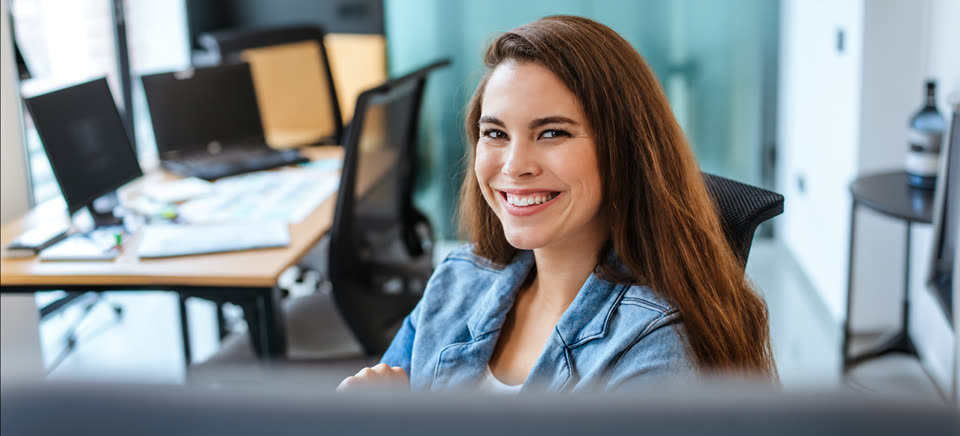
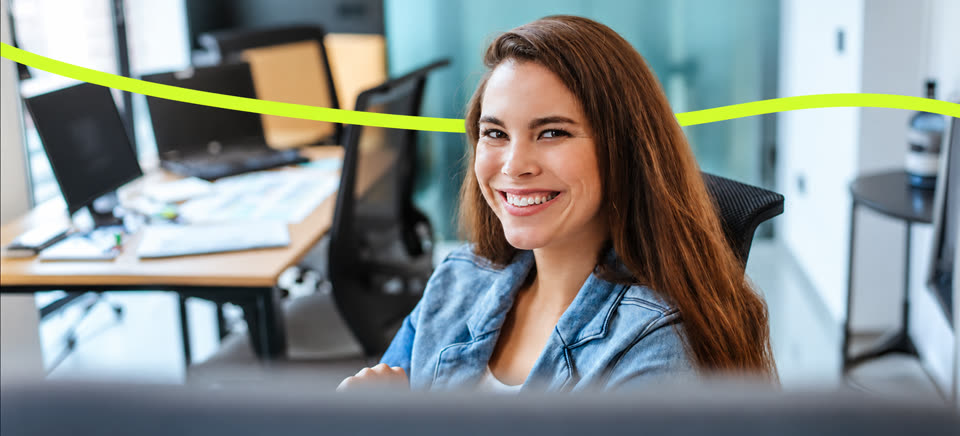
Trois sujets : retour aux trois cartes avec photo, nouvelle photo témoignage
- « Trois sujets » : retour aux trois cartes d'origine, avec une photo en
  tête de chaque carte (pictogramme lime posé sur la photo, léger zoom au
  survol)
- Témoignage : nouvelle photo fournie (ruban lime), optimisée en JPG et
  recadrée
- Vidéo promo : halo sombre derrière le titre de la scène LiDAR pour la
  lisibilité

Claude-Session: https://claude.ai/code/session_012Z1wnqPfYkGYDkLmqNruBr

diff --git a/src/components/Pillars.tsx b/src/components/Pillars.tsx
@@ -1,262 +1,45 @@
-import type { ReactNode } from 'react';
-import { Banknote, CalendarClock, Check, Search, Sparkles, Zap, type LucideIcon } from 'lucide-react';
-import { useInView, useSteps } from '../hooks/useInView';
+import { Banknote, Check, Search, Zap, type LucideIcon } from 'lucide-react';
 import Reveal from './Reveal';
 import Section, { Eyebrow, Heading, Lead } from './Section';
 
-const NB = ' ';
-
 // Unsplash photos (Unsplash License, free for commercial use).
-const unsplash = (id: string, w: number) => `https://images.unsplash.com/${id}?auto=format&fit=crop&w=${w}&h=${Math.round(w * 0.78)}&q=80`;
+const photo = (id: string, w: number) =>
+  `https://images.unsplash.com/${id}?auto=format&fit=crop&w=${w}&h=${Math.round(w * 0.62)}&q=80`;
 
-/* ------------------------------------------------------------ mini demos */
-
-/** Budget vs actual bars grow, then the cash-flow line draws itself. */
-function FinanceDemo({ active }: { active: boolean }) {
-  const bars = [
-    [55, 50],
-    [62, 60],
-    [60, 66],
-    [72, 70],
-    [70, 75],
-    [80, 78],
-  ];
-  return (
-    <div className="w-72 rounded-2xl border border-white/20 bg-ink/80 p-4 text-white shadow-2xl backdrop-blur-xl">
-      <div className="flex items-center justify-between text-[11px] text-white/60">
-        <span>Budget vs réalisé</span>
-        <span
-          className={`rounded-full bg-lime-300/20 px-2 py-0.5 text-lime-200 transition-all delay-[1400ms] duration-500 ${
-            active ? 'scale-100 opacity-100' : 'scale-75 opacity-0'
-          }`}
-        >
-          Écart +6{NB}%
-        </span>
-      </div>
-      <div className="relative mt-3 flex h-24 items-end gap-2">
-        {bars.map(([planned, actual], i) => (
-          <div key={i} className="flex h-full flex-1 items-end gap-0.5">
-            <div
-              className="flex-1 rounded-t-sm bg-white/25 transition-all duration-700 ease-out"
-              style={{ height: active ? `${planned}%` : '4%', transitionDelay: `${i * 90}ms` }}
-            />
-            <div
-              className="flex-1 rounded-t-sm bg-sky-300 transition-all duration-700 ease-out"
-              style={{ height: active ? `${actual}%` : '4%', transitionDelay: `${i * 90 + 60}ms` }}
-            />
-          </div>
-        ))}
-        <svg viewBox="0 0 100 40" preserveAspectRatio="none" className="pointer-events-none absolute inset-0 h-full w-full">
-          <path
-            d="M0 32 L20 28 L40 30 L60 20 L80 16 L100 6"
-            fill="none"
-            stroke="#bef264"
-            strokeWidth="1.6"
-            vectorEffect="non-scaling-stroke"
-            pathLength={1}
-            strokeDasharray="1"
-            className="transition-[stroke-dashoffset] delay-700 duration-[1200ms] ease-out"
-            style={{ strokeDashoffset: active ? 0 : 1 }}
-          />
-        </svg>
-      </div>
-      <p className="mt-2 flex items-center gap-1.5 text-[10px] text-white/55">
-        <i className="h-0.5 w-3 rounded bg-lime-300" /> Trésorerie prévisionnelle{NB}: +24{NB}800{NB}€
-      </p>
-    </div>
-  );
-}
-
-/** Matching grants appear one by one, the best one is added to the follow-up. */
-function FundingDemo({ active }: { active: boolean }) {
-  const step = useSteps(active, 4, 550);
-  const items = [
-    { name: 'Fonds vie associative', match: 92, date: '14 nov.' },
-    { name: 'Fondation Solidarités', match: 81, date: '2 déc.' },
-    { name: 'Appel à projets Jeunesse', match: 74, date: '9 janv.' },
-  ];
-  return (
-    <div className="w-80 rounded-2xl border border-white/20 bg-ink/80 p-4 text-white shadow-2xl backdrop-blur-xl">
-      <p className="flex items-center gap-1.5 text-[11px] text-white/60">
-        <Sparkles size={12} className="text-amber-200" /> Opportunités pour votre association
-      </p>
-      <ul className="mt-3 flex flex-col gap-2">
-        {items.map((item, i) => (
-          <li
-            key={item.name}
-            className={`flex items-center justify-between gap-3 rounded-lg border px-3 py-2 transition-all duration-500 ${
-              step > i ? 'translate-x-0 opacity-100' : 'translate-x-6 opacity-0'
-            } ${i === 0 && step > 3 ? 'border-lime-300/60 bg-lime-300/10' : 'border-white/10 bg-white/[0.05]'}`}
-          >
-            <span className="min-w-0">
-              <span className="block truncate text-[12px] font-medium">{item.name}</span>
-              <span className="flex items-center gap-1 text-[10px] text-white/50">
-                <CalendarClock size={10} /> Clôture le {item.date}
-              </span>
-            </span>
-            {i === 0 && step > 3 ? (
-              <span className="flex shrink-0 items-center gap-1 rounded-full bg-lime-300 px-2 py-0.5 text-[10px] font-medium text-ink">
-                <Check size={10} /> Suivi
-              </span>
-            ) : (
-              <span className="shrink-0 rounded-full bg-emerald-400/20 px-2 py-0.5 text-[10px] text-emerald-100">
-                {item.match}{NB}%
-              </span>
-            )}
-          </li>
-        ))}
-      </ul>
-    </div>
-  );
-}
-
-/** Uncategorised bank lines get classified automatically, the counter drops. */
-function AutomationDemo({ active }: { active: boolean }) {
-  const step = useSteps(active, 4, 650);
-  const rows = [
-    { label: 'VIR Conseil régional', amount: '+8 000 €', cat: 'Subvention' },
-    { label: 'CB Jardinerie du quartier', amount: '−142 €', cat: 'Projet Jardins' },
-    { label: 'PRLV Assurance locaux', amount: '−310 €', cat: 'Frais généraux' },
-    { label: 'VIR Cotisation adhérent', amount: '+30 €', cat: 'Cotisations' },
-  ];
-  const left = 33 - step * 8 - (step === 4 ? 1 : 0);
-  return (
-    <div className="w-80 rounded-2xl border border-white/20 bg-ink/80 p-4 text-white shadow-2xl backdrop-blur-xl">
-      <div className="flex items-center justify-between text-[11px] text-white/60">
-        <span className="flex items-center gap-1.5">
-          <Zap size={12} className="text-lime-300" /> Transactions
-        </span>
-        <span className={left === 0 ? 'text-lime-200' : ''}>
-          {left === 0 ? 'Tout est classé' : `${left} à classer`}
-        </span>
-      </div>
-      <ul className="mt-3 flex flex-col gap-1.5">
-        {rows.map((row, i) => {
-          const done = step > i;
-          return (
-            <li key={row.label} className="flex items-center justify-between gap-2 rounded-lg bg-white/[0.05] px-3 py-2">
-              <span className="min-w-0">
-                <span className="block truncate text-[11px]">{row.label}</span>
-                <span className="text-[10px] text-white/45">{row.amount.replace(' ', NB).replace(' €', `${NB}€`)}</span>
-              </span>
-              <span
-                className={`flex shrink-0 items-center gap-1 rounded-full px-2 py-0.5 text-[10px] transition-all duration-500 ${
-                  done ? 'bg-lime-300 font-medium text-ink' : 'bg-white/10 text-white/50'
-                }`}
-              >
-                {done && <Check size={10} />}
-                {done ? row.cat : 'À classer'}
-              </span>
-            </li>
-          );
-        })}
-      </ul>
-    </div>
-  );
-}
-
-/* ---------------------------------------------------------------- layout */
-
-type Feature = {
+const pillars: {
   icon: LucideIcon;
-  eyebrow: string;
   title: string;
   body: string;
   points: string[];
-  photo: { id: string; alt: string };
-  Demo: (props: { active: boolean }) => ReactNode;
-};
-
-const features: Feature[] = [
+  image: { id: string; alt: string };
+}[] = [
   {
     icon: Banknote,
-    eyebrow: 'Finances',
-    title: 'Du budget à la trésorerie, anticipez plutôt que subir.',
-    body: 'Budget, réel, écarts et trésorerie au même endroit. Les projections vous montrent où vous allez, pas seulement où vous en êtes.',
+    title: 'Du budget à la trésorerie',
+    body: 'Budget, réel, écarts et trésorerie au même endroit, avec des projections pour anticiper plutôt que subir.',
     points: ['Budget et réalisé comparés en continu', 'Projections de trésorerie', 'Écarts visibles avant qu’ils ne bloquent'],
-    photo: { id: 'photo-1517048676732-d65bc937f952', alt: 'Une équipe autour d’une table, en réunion de travail' },
-    Demo: FinanceDemo,
+    image: { id: 'photo-1517048676732-d65bc937f952', alt: 'Une équipe autour d’une table, en réunion de travail' },
   },
   {
     icon: Search,
-    eyebrow: 'Financements',
-    title: 'Ne passez plus à côté d’une opportunité.',
-    body: 'PilotAsso repère les appels à projets et subventions pertinents pour votre association, et centralise le suivi de toutes vos échéances.',
+    title: 'Les financements',
+    body: 'Les opportunités pertinentes pour votre association repérées plus tôt, et toutes vos échéances au même endroit.',
     points: ['Opportunités identifiées plus tôt', 'Échéances centralisées', 'Suivi unifié de vos financeurs'],
-    photo: { id: 'photo-1599059813005-11265ba4b4ce', alt: 'Des bénévoles trient des dons alimentaires' },
-    Demo: FundingDemo,
+    image: { id: 'photo-1599059813005-11265ba4b4ce', alt: 'Des bénévoles trient des dons alimentaires' },
   },
   {
     icon: Zap,
-    eyebrow: 'Automatisation',
-    title: 'Moins de tâches répétitives, plus de temps pour la mission.',
-    body: 'Les transactions bancaires sont classées automatiquement et les bilans se préparent tout seuls. Le temps gagné revient à vos projets.',
+    title: 'Les tâches répétitives',
+    body: 'L’automatisation libère vos équipes : moins de temps à rassembler l’information, plus de temps pour décider.',
     points: ['Moins de saisie manuelle', 'Aide intelligente à la recherche', 'Préparation des bilans plus rapide'],
-    photo: { id: 'photo-1787647561633-dcbbad61f227', alt: 'Une bénévole souriante travaille sur son ordinateur' },
-    Demo: AutomationDemo,
+    image: { id: 'photo-1787647561633-dcbbad61f227', alt: 'Une bénévole souriante travaille sur son ordinateur' },
   },
 ];
-
-function FeatureRow({ feature, index }: { feature: Feature; index: number }) {
-  const [ref, active] = useInView<HTMLDivElement>(0.35);
-  const flip = index % 2 === 1;
-  const { icon: Icon, Demo } = feature;
-  return (
-    <div ref={ref} className="grid items-center gap-10 md:grid-cols-2 lg:gap-16">
-      <Reveal from={flip ? 'right' : 'left'} className={`relative ${flip ? 'md:order-2' : ''}`}>
-        <div className="relative overflow-hidden rounded-3xl shadow-[0_30px_60px_-30px_rgba(11,27,51,0.5)]">
-          <img
-            src={unsplash(feature.photo.id, 1100)}
-            srcSet={`${unsplash(feature.photo.id, 700)} 700w, ${unsplash(feature.photo.id, 1100)} 1100w`}
-            sizes="(min-width: 768px) 50vw, 100vw"
-            alt={feature.photo.alt}
-            loading="lazy"
-            className={`aspect-[4/3] w-full object-cover transition-transform duration-[2000ms] ease-out ${
-              active ? 'scale-100' : 'scale-110'
-            }`}
-          />
-          <div className="absolute inset-0 bg-gradient-to-t from-ink/40 via-transparent to-transparent" />
-        </div>
-        <div
-          className={`relative -mt-16 flex justify-center transition-all delay-300 duration-700 ease-out md:absolute md:-bottom-8 md:mt-0 md:block ${
-            flip ? 'md:-left-8' : 'md:-right-8'
-          } ${active ? 'translate-y-0 opacity-100' : 'translate-y-8 opacity-0'}`}
-        >
-          <Demo active={active} />
-        </div>
-      </Reveal>
-
-      <div className={flip ? 'md:order-1' : ''}>
-        <Reveal>
-          <span className="inline-flex items-center gap-2 rounded-full bg-lime-300 px-3 py-1 text-xs font-medium text-ink">
-            <Icon size={14} /> {feature.eyebrow}
-          </span>
-        </Reveal>
-        <Reveal delay={100} className="mt-5">
-          <h3 className="text-2xl font-semibold leading-[1.12] tracking-display text-ink sm:text-3xl">{feature.title}</h3>
-        </Reveal>
-        <Reveal delay={200} className="mt-4">
-          <p className="text-base leading-relaxed text-ink/65 sm:text-lg">{feature.body}</p>
-        </Reveal>
-        <ul className="mt-6 flex flex-col gap-3">
-          {feature.points.map((point, i) => (
-            <Reveal as="li" key={point} delay={300 + i * 100} className="flex items-start gap-3 text-[15px] text-ink/80">
-              <span className="mt-0.5 flex h-5 w-5 shrink-0 items-center justify-center rounded-full bg-ink text-lime-300">
-                <Check size={12} strokeWidth={3} />
-              </span>
-              {point}
-            </Reveal>
-          ))}
-        </ul>
-      </div>
-    </div>
-  );
-}
 
 export default function Pillars() {
   return (
     <Section id="fonctionnalites">
-      <div className="mx-auto max-w-2xl text-center">
+      <div className="max-w-2xl">
         <Reveal>
           <Eyebrow tone="light">La plateforme</Eyebrow>
         </Reveal>
@@ -271,9 +54,37 @@ export default function Pillars() {
         </Reveal>
       </div>
 
-      <div className="mt-20 flex flex-col gap-28 sm:gap-36">
-        {features.map((feature, i) => (
-          <FeatureRow key={feature.eyebrow} feature={feature} index={i} />
+      <div className="mt-14 grid gap-5 md:grid-cols-3">
+        {pillars.map(({ icon: Icon, title, body, points, image }, i) => (
+          <Reveal key={title} delay={150 + i * 130}>
+            <div className="group h-full overflow-hidden rounded-3xl border border-ink/10 bg-white shadow-[0_1px_0_rgba(11,27,51,0.04)] transition-all duration-300 hover:-translate-y-1 hover:shadow-[0_24px_50px_-24px_rgba(11,27,51,0.35)]">
+              <div className="relative overflow-hidden">
+                <img
+                  src={photo(image.id, 800)}
+                  srcSet={`${photo(image.id, 500)} 500w, ${photo(image.id, 800)} 800w`}
+                  sizes="(min-width: 768px) 33vw, 100vw"
+                  alt={image.alt}
+                  loading="lazy"
+                  className="aspect-[16/10] w-full object-cover transition-transform duration-700 ease-out group-hover:scale-105"
+                />
+                <span className="absolute bottom-4 left-5 flex h-11 w-11 items-center justify-center rounded-xl bg-lime-300 text-ink shadow-lg">
+                  <Icon size={20} />
+                </span>
+              </div>
+              <div className="p-7 pt-6">
+                <h3 className="text-xl font-semibold tracking-heading text-ink">{title}</h3>
+                <p className="mt-3 text-[15px] leading-relaxed text-ink/65">{body}</p>
+                <ul className="mt-6 flex flex-col gap-2.5 border-t border-ink/10 pt-6">
+                  {points.map((point) => (
+                    <li key={point} className="flex items-start gap-2.5 text-sm text-ink/80">
+                      <Check size={15} className="mt-0.5 shrink-0 text-lime-600" />
+                      {point}
+                    </li>
+                  ))}
+                </ul>
+              </div>
+            </div>
+          </Reveal>
         ))}
       </div>
     </Section>

diff --git a/src/components/Testimonial.tsx b/src/components/Testimonial.tsx
@@ -57,7 +57,7 @@ export default function Testimonial() {
         sizes="100vw"
         alt="Une bénévole souriante à son bureau, dans les locaux de l’association"
         loading="lazy"
-        className="absolute inset-0 h-full w-full scale-[1.15] object-cover object-[68%_center] will-change-transform"
+        className="absolute inset-0 h-full w-full scale-[1.15] object-cover object-[58%_center] will-change-transform"
       />
       <div
         aria-hidden
